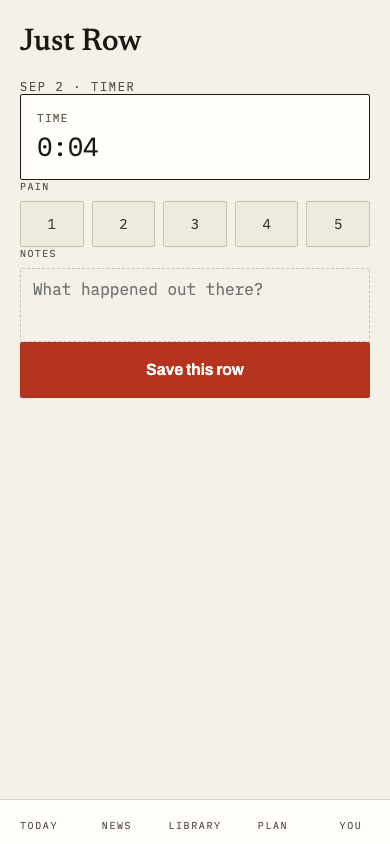
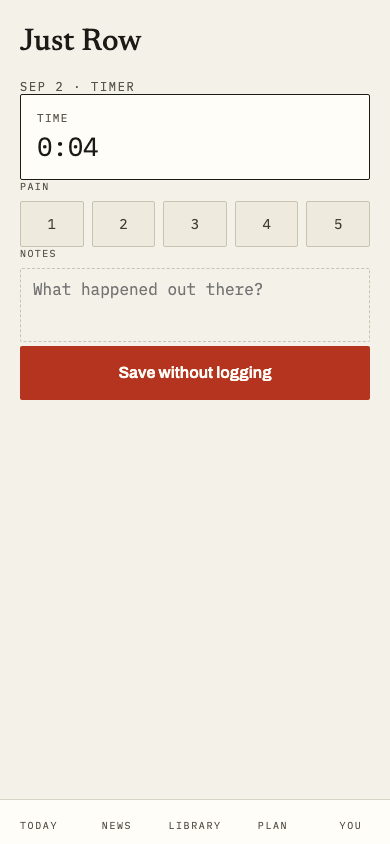
test(e2e): a Just Row stands in for SESSION 1 end to end; captures for the plan door, the stand-in rows, and the recentred swap badge
Claude-Session: https://claude.ai/code/session_013Zebvh9Rq7cXCKg9k1TN2b

Changed region(s): [[0.0615, 0.4005, 0.9538, 0.4621]]

diff --git a/app/e2e/justrow.spec.ts b/app/e2e/justrow.spec.ts
@@ -266,3 +266,159 @@ test.describe("Just Row: without the monitor", () => {
     await expect(page.getByText("INTERVALS")).toHaveCount(0);
   });
 });
+
+/** Sets baselines so Today renders its plan line rather than the
+ *  onboarding doors (`Today.tsx`'s `needsDoors = baselines === null` hides
+ *  the whole plan apparatus) — duplicated from `today.spec.ts`'s own helper,
+ *  this repo's precedent for small per-file e2e helpers. */
+async function setBaselines(
+  page: Page,
+  baselines: { k2Seconds: number; k6Seconds: number },
+): Promise<void> {
+  const result = await page.evaluate(async (patch) => {
+    const res = await fetch("/api/baselines", {
+      method: "PUT",
+      headers: { "Content-Type": "application/json" },
+      body: JSON.stringify(patch),
+    });
+    return { ok: res.ok, status: res.status, body: await res.text() };
+  }, baselines);
+  if (!result.ok) {
+    throw new Error(`baseline setup failed: ${result.status} ${result.body}`);
+  }
+}
+
+/** Activates a preset plan via the real `PUT /api/plan` route — copied
+ *  from `log.spec.ts`'s own `choosePlan`. */
+async function choosePlan(
+  page: Page,
+  planKey: "sprint" | "head",
+): Promise<void> {
+  const result = await page.evaluate(async (key) => {
+    const res = await fetch("/api/plan", {
+      method: "PUT",
+      headers: { "Content-Type": "application/json" },
+      body: JSON.stringify({ planKey: key }),
+    });
+    return { ok: res.ok, status: res.status, body: await res.text() };
+  }, planKey);
+  if (!result.ok) {
+    throw new Error(`plan setup failed: ${result.status} ${result.body}`);
+  }
+}
+
+/** Zeroes `doneN` via `PUT /api/plan {reset:true}` — copied from
+ *  `log.spec.ts`'s own `resetPlanProgress`. A fresh backdoor user starts at
+ *  zero anyway; the reset makes the starting position an assertion of this
+ *  test rather than an accident of the user being new. */
+async function resetPlanProgress(page: Page): Promise<void> {
+  const result = await page.evaluate(async () => {
+    const res = await fetch("/api/plan", {
+      method: "PUT",
+      headers: { "Content-Type": "application/json" },
+      body: JSON.stringify({ reset: true }),
+    });
+    return { ok: res.ok, status: res.status, body: await res.text() };
+  });
+  if (!result.ok) {
+    throw new Error(`plan reset failed: ${result.status} ${result.body}`);
+  }
+}
+
+// A Just Row STANDS IN for a plan session (substitution spec 2026-09-02,
+// exit criterion 4 — the RF24 seam test): the one e2e that starts at the
+// Just Row door with a plan active and walks the whole producer → reader
+// chain for real. The door posts `advancesPlan: true` (the free row's
+// explicit opt-in — the store's default for a free row is "does not
+// count"), the store bumps `done_n` AND writes the link in the same
+// transaction, Today's plan line re-reads `SESSION n OF N` from
+// `GET /api/plan`, and the Plan tab reads the link back through
+// `GET /api/logs?plan=sprint` and prints the stand-in: the JR chip in the
+// badge slot (the pair `workoutId` null + `workoutType` null — never the
+// unknown-type box, which the same null type would otherwise claim), the
+// name `Just Row`, and the shipped swap mark naming what the day asked
+// for. Sprint index 0 is an O2 day (`domain/plans.ts` `SPRINT_WEEKS[0][0]`),
+// so the mark reads `INSTEAD OF O2`.
+//
+// Every number here is READ, not seeded: `resetPlanProgress` puts the
+// plan at zero, and the only thing that moves it is the button under
+// test. Red-proof (RF21): asserting `SESSION 1 OF 84` on Today after the
+// save fails with the line reading `SESSION 2 OF 84` — the count moved
+// because the door's lead moved it.
+test.describe("Just Row: standing in for a plan session", () => {
+  test("plan at SESSION 1 → Start Timer → Finish → Log against plan · SESSION 1 OF 84 → Today reads SESSION 2 OF 84 → Plan row 1 is the JR stand-in INSTEAD OF O2", async ({
+    page,
+  }) => {
+    await signInViaBackdoor(page, {
+      email: `justrow-standin-${RUN_ID}@e2e.test`,
+      name: "Just Row Stand-in Walker",
+    });
+    await setBaselines(page, { k2Seconds: 100, k6Seconds: 120 });
+    await choosePlan(page, "sprint");
+    await resetPlanProgress(page);
+
+    // The starting position, read off Today's own plan line — the number
+    // whose meaning this feature changes (TRIAD).
+    await page.goto("/today");
+    await expect(page.locator(".today-plan-line")).toContainText(
+      "SESSION 1 OF 84",
+    );
+
+    // The phone-timed door, three real seconds on the clock, then ▶ →
+    // Finish — the same walk `Just Row: without the monitor` takes.
+    await page.getByRole("link", { name: "JUST ROW" }).click();
+    await page.getByRole("button", { name: "Start Timer" }).click();
+    await expect(page).toHaveURL(/\/session\/run$/);
+    await expect(page.getByText("0:03").first()).toBeVisible({
+      timeout: 10_000,
+    });
+    await page.getByRole("button", { name: "Next phase" }).click();
+    await page.getByRole("button", { name: "Finish session" }).click();
+    await expect(page).toHaveURL(/\/justrow\/log$/);
+
+    // The door wears the shipped pair (handoff `Main.dc.html`): the lead
+    // carries the plan position it will consume, and `Save without
+    // logging` sits under it. Both asserted so a door showing only one
+    // cannot pass.
+    const lead = page.getByRole("button", {
+      name: "Log against plan · SESSION 1 OF 84",
+    });
+    await expect(lead).toBeVisible();
+    await expect(lead).toHaveClass(/summary-save-lead/);
+    const secondary = page.getByRole("button", {
+      name: "Save without logging",
+    });
+    await expect(secondary).toBeVisible();
+    await expect(secondary).toHaveClass(/summary-save-secondary/);
+    await lead.click();
+    await expect(page).toHaveURL(/\/today\/log$/);
+
+    // Today: the plan moved by exactly one, because a free row that opted
+    // in counts (unconnected criterion 2, amended by the substitution
+    // spec: "unless the body opted in").
+    await page.goto("/today");
+    await expect(page.locator(".today-plan-line")).toContainText(
+      "SESSION 2 OF 84",
+    );
+
+    // Plan tab (handoff `PlanRow.dc.html`, row 5's treatment on row 1):
+    // the done row is a LINK to the stored log, wears the JR chip on its
+    // own class in the badge slot — no `.type-badge`, no unknown box — is
+    // named `Just Row`, and carries the mark naming the O2 day it stood
+    // in for.
+    await page.goto("/plan");
+    await page.locator(".plan-sequence").waitFor();
+    await expect(page.locator(".plan-row")).toHaveCount(84);
+    const row = page.locator(".plan-row").nth(0);
+    await expect(row).toHaveClass(/plan-row-done/);
+    await expect(row).toHaveClass(/plan-row-swapped/);
+    await expect(row).toHaveAttribute("href", /\/today\/log\/.+/);
+    await expect(row.locator(".free-row-chip")).toHaveText("JR");
+    await expect(row.locator(".type-badge")).toHaveCount(0);
+    await expect(row.locator(".plan-row-badge-unknown")).toHaveCount(0);
+    await expect(row.locator(".plan-row-name")).toHaveText("Just Row");
+    await expect(row.locator(".plan-row-swap")).toHaveText("INSTEAD OF O2");
+    // Exactly one done row: the stand-in is the ONLY thing that advanced.
+    await expect(page.locator("a.plan-row-done")).toHaveCount(1);
+  });
+});

diff --git a/app/e2e/screenshots.spec.ts b/app/e2e/screenshots.spec.ts
@@ -1154,7 +1154,11 @@ test("plan-linked", async ({ page }) => {
     "INSTEAD OF TR",
   );
   // The badge follows what was ROWED, not what the plan asked: row 4 is a
-  // TR day showing an O2 badge beside an O2 workout's name.
+  // TR day showing an O2 badge beside an O2 workout's name. Since the
+  // substitution spec (2026-09-02, Gate 0: "still center the chips") that
+  // badge centres against the name + mark PAIR, not the name line — this
+  // capture was re-taken for exactly that move (`design.spec.ts` measures
+  // it; `plan-standin` below shows the JR chip in the same slot).
   await expect(linkedRows.nth(3).locator(".type-badge")).toHaveText("O2");
 
   // The upcoming checkpoint (sprint index 6, row 7) names its prescribed
@@ -1168,6 +1172,97 @@ test("plan-linked", async ({ page }) => {
 
   await page.screenshot({
     path: path.join(SCREENSHOTS_DIR, "plan-linked.png"),
+  });
+});
+
+// Substitution spec (2026-09-02), exit criterion 3's capture (handoff
+// `PlanRow.dc.html`, rows 5 and 7): the Plan tab with a Just Row STANDING
+// IN on a type day AND on a checkpoint day. The board's first four rows
+// are `plan-linked`'s own (indices 0..3, the fourth a swap), then a free
+// row opted in with `advancesPlan: true` lands on index 4 — sprint's AT
+// day — wearing the JR chip, the name `Just Row`, and `INSTEAD OF AT`; a
+// plain O2 on index 5; and a second stand-in on index 6, the sprint
+// checkpoint, marked `INSTEAD OF 2K Test` — the prescription's title in
+// ITS case, as the shipped mark prints it. Seeded through the real POST
+// with the free pair (`workoutId` null + `workoutType` null) and `steps:
+// []`, the body the Just Row door itself sends; the header reads
+// `SESSION 8 OF 84` because every one of the seven counted.
+test("plan-standin", async ({ page }) => {
+  await signInViaBackdoor(page, {
+    email: "screenshots-plan-standin@e2e.test",
+    name: "Screenshot Tester",
+  });
+  await choosePlan(page, "sprint");
+  await resetPlanProgress(page);
+  const rowed: { title: string; type: "O2" | "AT" | "TR" | "AN" | null }[] = [
+    { title: "Sea Fret", type: "O2" }, // index 0, an O2 day
+    { title: "Occluded Front", type: "AT" }, // index 1, an AT day
+    { title: "Horse Latitudes", type: "O2" }, // index 2, an O2 day
+    { title: "Slack Tide", type: "O2" }, // index 3 is a TR day — SWAPPED
+    { title: "Just Row", type: null }, // index 4 is an AT day — STAND-IN
+    { title: "Sea Fret", type: "O2" }, // index 5, an O2 day
+    { title: "Just Row", type: null }, // index 6, the 2K Test checkpoint
+  ];
+  for (const { title, type } of rowed) {
+    if (type === null) {
+      await postLog(page, {
+        workoutTitle: title,
+        workoutType: null,
+        steps: [],
+        timeSeconds: 600,
+        source: "timer",
+        advancesPlan: true,
+      });
+    } else {
+      await postLog(page, {
+        workoutTitle: title,
+        workoutType: type,
+        held: "held",
+        pain: 2,
+        avgSplitSeconds: 130,
+        timeSeconds: 780,
+        distanceMeters: 3000,
+        advancesPlan: true,
+        steps: [
+          {
+            label: "6:00 @ 6k",
+            targetSplit: 130,
+            actualSplit: 130,
+            actualSource: "stopwatch",
+            meters: 3000,
+          },
+        ],
+      });
+    }
+  }
+
+  await page.goto("/plan");
+  await page.locator(".plan-sequence").waitFor();
+  await expect(page.locator(".plan-row")).toHaveCount(84);
+  await expect(page.locator("a.plan-row-done")).toHaveCount(7);
+  await expect(page.getByText("SESSION 8 OF 84")).toBeVisible();
+
+  // Row 5 (index 4): the stand-in on a type day — the chip on its OWN
+  // class, no type badge, no unknown box, the mark naming the AT day.
+  const typeDay = page.locator(".plan-row").nth(4);
+  await expect(typeDay.locator(".free-row-chip")).toHaveText("JR");
+  await expect(typeDay.locator(".type-badge")).toHaveCount(0);
+  await expect(typeDay.locator(".plan-row-badge-unknown")).toHaveCount(0);
+  await expect(typeDay.locator(".plan-row-name")).toHaveText("Just Row");
+  await expect(typeDay.locator(".plan-row-swap")).toHaveText("INSTEAD OF AT");
+
+  // Row 7 (index 6): the stand-in on the checkpoint — the mark names the
+  // prescribed workout by its own title, in its own case.
+  const checkpoint = page.locator(".plan-row").nth(6);
+  await expect(checkpoint.locator(".free-row-chip")).toHaveText("JR");
+  await expect(checkpoint.locator(".plan-row-name")).toHaveText("Just Row");
+  await expect(checkpoint.locator(".plan-row-swap")).toHaveText(
+    "INSTEAD OF 2K Test",
+  );
+  await expect(page.locator(".free-row-chip")).toHaveCount(2);
+
+  await page.screenshot({
+    path: path.join(SCREENSHOTS_DIR, "plan-standin.png"),
   });
 });
 
@@ -4830,6 +4925,59 @@ test("justrow-log-timer", async ({ page }) => {
   await expect(page.getByText("PAIN", { exact: true })).toBeVisible();
   await page.screenshot({
     path: path.join(SCREENSHOTS_DIR, "justrow-log-timer.png"),
+  });
+});
+
+// The Just Row log door WITH a plan (substitution spec 2026-09-02,
+// exit criterion 2; handoff `Main.dc.html`): the shipped pair replaces the
+// single "Save this row" — `Log against plan · SESSION n OF N` leads on
+// `.summary-save-lead`, `Save without logging` sits under it on
+// `.summary-save-secondary`. Four counted rows are seeded first so the
+// lead reads the board's own `SESSION 5 OF 84` rather than the fresh
+// account's `1`; the row itself is walked through the real timer door,
+// the same flow `justrow-log-timer` captures.
+test("justrow-log-plan", async ({ page }) => {
+  await signInViaBackdoor(page, {
+    email: "screenshots-justrow-log-plan@e2e.test",
+    name: "Screenshot Tester",
+  });
+  await choosePlan(page, "sprint");
+  await resetPlanProgress(page);
+  for (const { title, type } of [
+    { title: "Sea Fret", type: "O2" },
+    { title: "Occluded Front", type: "AT" },
+    { title: "Horse Latitudes", type: "O2" },
+    { title: "Slack Tide", type: "O2" },
+  ]) {
+    await postLog(page, {
+      workoutTitle: title,
+      workoutType: type,
+      held: "held",
+      pain: 2,
+      avgSplitSeconds: 130,
+      timeSeconds: 780,
+      distanceMeters: 3000,
+      advancesPlan: true,
+    });
+  }
+  await page.goto("/justrow");
+  await page.getByRole("button", { name: "Start Timer" }).click();
+  await expect(page).toHaveURL(/\/session\/run$/);
+  await expect(page.getByText("JUST ROW", { exact: true })).toBeVisible();
+  await expect(page.getByText("0:04").first()).toBeVisible({
+    timeout: 10_000,
+  });
+  await finishJustRowTimer(page);
+  await expect(page.getByText("PAIN", { exact: true })).toBeVisible();
+  const lead = page.getByRole("button", {
+    name: "Log against plan · SESSION 5 OF 84",
+  });
+  await expect(lead).toHaveClass(/summary-save-lead/);
+  await expect(
+    page.getByRole("button", { name: "Save without logging" }),
+  ).toHaveClass(/summary-save-secondary/);
+  await page.screenshot({
+    path: path.join(SCREENSHOTS_DIR, "justrow-log-plan.png"),
   });
 });
 

diff --git a/docs/design/handoffs/2026-09-02-just-row-substitution/README.md b/docs/design/handoffs/2026-09-02-just-row-substitution/README.md
@@ -2,8 +2,14 @@
 
 **Origin:** Gate 0 for Phase JR follow-on item 5 (James, 2026-09-01:
 "advances the record, records the stand-in"; 2026-09-02: checkpoint days
-included). **Status: GATE 0 PASSED — James, 2026-09-02, on rev 1d ("design approved").
-Board final; chips centred on both axes, the checkpoint mark cased as shipped.**
+included). **Status: IMPLEMENTED on branch jr-substitution (Gate 0 PASSED — James,
+2026-09-02, on rev 1d, "design approved"; board final; chips centred on
+both axes, the checkpoint mark cased as shipped). Captures:
+`docs/screenshots/justrow-log-plan.png` (Main.dc.html — the door with the
+pair), `docs/screenshots/plan-linked.png` re-taken (the shipped O2 swap
+row's badge moved), `docs/screenshots/plan-standin.png` (PlanRow.dc.html
+rows 5 and 7 — the JR stand-in on an AT day and on the 2K Test
+checkpoint).**
 
 ## Boards, and where each label comes from
 
